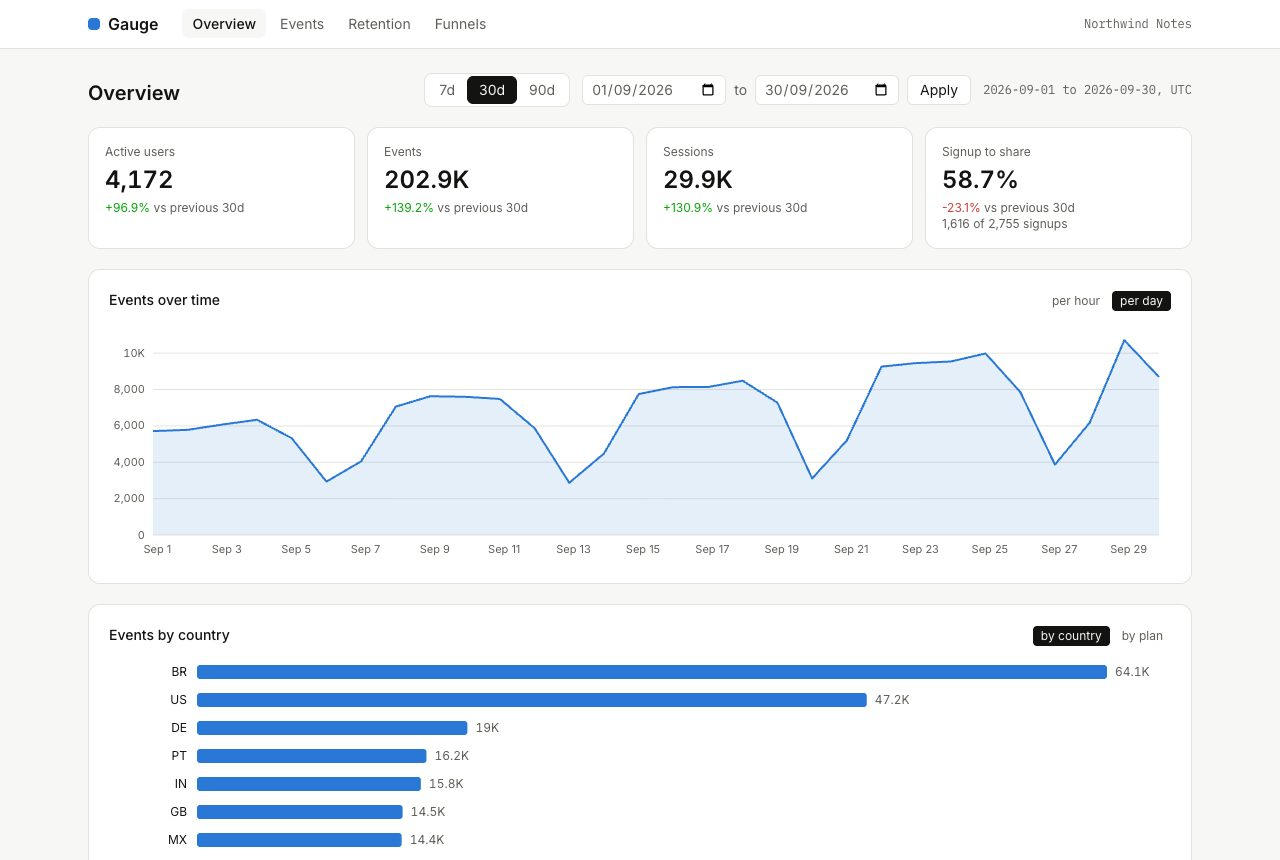
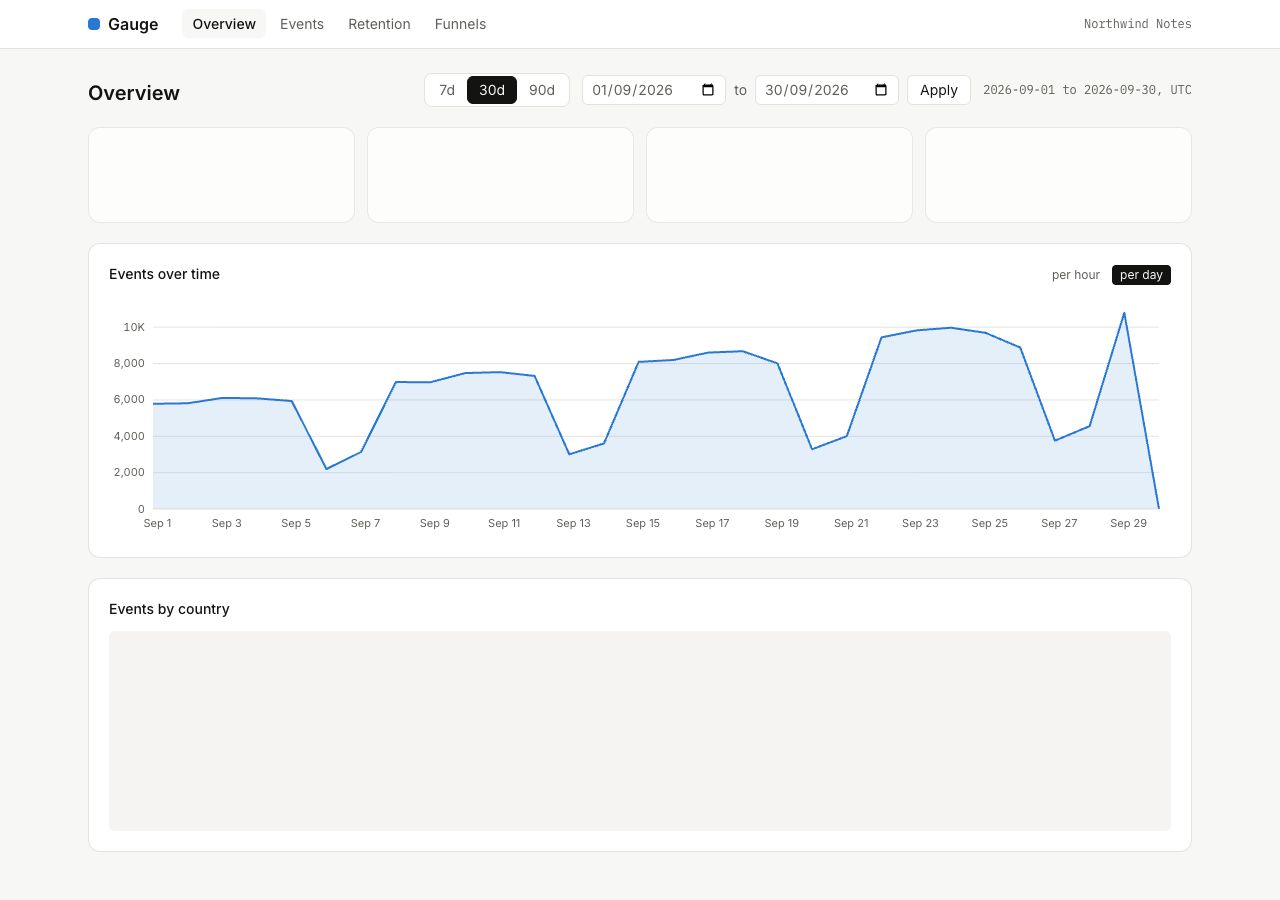
Make the seed reproducible and the database tests opt-in
The seed ends at the start of today in UTC (or SEED_NOW), so two runs
on the same day give the same numbers, and the reset and insert are one
transaction. The database tests run only with GAUGE_DB_TESTS=1: a .env
file alone does not mean Postgres is up.

diff --git a/src/lib/queries/__tests__/db.test.ts b/src/lib/queries/__tests__/db.test.ts
@@ -5,14 +5,15 @@ import { describe, expect, it } from 'vitest'
 import { parseRange } from '@/lib/params'
 
 /**
- * Runs against the seeded database when DATABASE_URL is set; skipped
- * otherwise, so `npm test` works without Postgres. The numbers below come
- * from the deterministic seed, so they are exact.
+ * Runs against the seeded database only when asked for with GAUGE_DB_TESTS=1
+ * (and DATABASE_URL set); a `.env` alone does not mean Postgres is up, and
+ * `npm test` has to pass on a laptop with the database stopped. The numbers
+ * below come from the deterministic seed, so they are exact.
  */
-const url = process.env.DATABASE_URL
+const enabled = process.env.GAUGE_DB_TESTS === '1' && Boolean(process.env.DATABASE_URL)
 const now = new Date()
 
-describe.skipIf(!url)('queries against the seeded database', () => {
+describe.skipIf(!enabled)('queries against the seeded database', () => {
   it('counts events in a range and fills empty buckets', async () => {
     const { timeseries, kpis } = await import('../overview')
     const range = parseRange({ range: '7d' }, now)
@@ -52,12 +53,23 @@ describe.skipIf(!url)('queries against the seeded database', () => {
     expect(second.data.rows[0]!.ts.getTime()).toBeLessThanOrEqual(last.ts.getTime())
   })
 
+  it('counts conversion only for signups old enough to have had the window', async () => {
+    const { kpis, CONVERSION_WINDOW_DAYS } = await import('../overview')
+    const range = parseRange({ range: '30d' }, now)
+    const k = await kpis(range.from, range.to, now)
+    // Pretend it is a week later: every signup in the range has matured, so the count can only grow.
+    const later = new Date(now.getTime() + CONVERSION_WINDOW_DAYS * 86_400_000)
+    const mature = await kpis(range.from, range.to, later)
+    expect(mature.signups).toBeGreaterThanOrEqual(k.signups)
+    expect(k.converted).toBeLessThanOrEqual(k.signups)
+  })
+
   it('builds a retention triangle whose first column is the cohort size', async () => {
     const { retention } = await import('../retention')
     const { data } = await retention(parseRange({ range: '90d' }, now), now)
     expect(data.cohorts.length).toBeGreaterThan(8)
     for (const c of data.cohorts) {
-      expect(c.cells[0]).toEqual({ users: c.size, ratio: 1 })
+      expect(c.cells[0]).toMatchObject({ users: c.size, ratio: 1 })
       for (const cell of c.cells.slice(1)) if (cell) expect(cell.ratio).toBeLessThanOrEqual(1)
     }
     // Newest cohort has fewer known weeks than the oldest.

diff --git a/prisma/seed.ts b/prisma/seed.ts
@@ -9,19 +9,38 @@ const db = new PrismaClient({
 })
 const BATCH = 5000
 
+/**
+ * The data ends at the start of today (UTC), or at SEED_NOW when set, so two
+ * runs on the same day produce the same numbers and a re-run is a no-op for
+ * the dashboards. The reset and the insert are one transaction: a reader
+ * during a reseed sees the old data or the new, never an empty table.
+ */
+function seedNow(): Date {
+  const env = process.env.SEED_NOW
+  if (env) return new Date(env)
+  const d = new Date()
+  return new Date(Date.UTC(d.getUTCFullYear(), d.getUTCMonth(), d.getUTCDate()))
+}
+
 async function main() {
   const started = performance.now()
-  const { users, events } = generate()
-  console.log(`generated ${users.length} users and ${events.length} events`)
+  const now = seedNow()
+  const { users, events } = generate({ now })
+  console.log(
+    `generated ${users.length} users and ${events.length} events up to ${now.toISOString()}`,
+  )
 
-  await db.event.deleteMany()
-  await db.user.deleteMany()
-  await db.user.createMany({ data: users })
-
-  for (let i = 0; i < events.length; i += BATCH) {
-    await db.event.createMany({ data: events.slice(i, i + BATCH) })
-    if ((i / BATCH) % 10 === 9) console.log(`  ${i + BATCH} events`)
-  }
+  await db.$transaction(
+    async (tx) => {
+      await tx.$executeRawUnsafe('TRUNCATE TABLE events, users RESTART IDENTITY')
+      await tx.user.createMany({ data: users })
+      for (let i = 0; i < events.length; i += BATCH) {
+        await tx.event.createMany({ data: events.slice(i, i + BATCH) })
+        if ((i / BATCH) % 10 === 9) console.log(`  ${i + BATCH} events`)
+      }
+    },
+    { timeout: 180_000 },
+  )
   await db.$executeRawUnsafe('ANALYZE events')
   await db.$executeRawUnsafe('ANALYZE users')
   console.log(`seeded in ${((performance.now() - started) / 1000).toFixed(1)}s`)

diff --git a/README.md b/README.md
@@ -41,12 +41,12 @@ npm run dev
 The seed is deterministic, so the numbers on your screen are the numbers in
 the screenshots. Any hosted Postgres works instead of `db:dev`.
 
-| Command             |                                                                   |
-| ------------------- | ----------------------------------------------------------------- |
-| `npm run dev`       | dev server, with each widget's query time under it                |
-| `npm test`          | the suite; the database tests run only when `DATABASE_URL` is set |
-| `npm run typecheck` | `tsc --noEmit`                                                    |
-| `npm run db:reset`  | drop, migrate, reseed                                             |
+| Command             |                                                                 |
+| ------------------- | --------------------------------------------------------------- |
+| `npm run dev`       | dev server, with each widget's query time under it              |
+| `npm test`          | the suite; add `GAUGE_DB_TESTS=1` to include the database tests |
+| `npm run typecheck` | `tsc --noEmit`                                                  |
+| `npm run db:reset`  | drop, migrate, reseed                                           |
 
 ## How the queries work
 
@@ -55,7 +55,7 @@ Everything lives in `src/lib/queries/` as tagged-template SQL through
 composed at runtime are column choices and CTE aliases the code picks itself.
 
 **Overview.** Counts over `events` for the range, and the same counts for
-the previous period of the same length, so every tile can say "+12% vs
+the previous period, cut to the same elapsed time, so every tile can say "+12% vs
 previous 30d". The time series uses `generate_series` for the buckets and a
 left join for the counts, which is what makes a quiet day show as zero
 instead of disappearing. Hour buckets kick in automatically for ranges up to
@@ -131,14 +131,19 @@ instead of noise.
 npm test
 ```
 
-32 tests without a database: the parameter parsing (every fallback), the
-retention and funnel shaping, CSV escaping, the seed's invariants (every
-event after its user's signup, the funnel leaks, weekends are quieter), and
-the charts as rendered components: empty states, the hidden tables, the
-keyboard tooltip. Five more run against the seeded database when
-`DATABASE_URL` is set: the buckets sum to the KPI count, keyset pages do
-not overlap, the retention triangle's first column equals the cohort size,
-the funnel never grows from one step to the next.
+41 tests without a database: the parameter parsing (every fallback, the
+calendar check, the span and hour-bucket clamps, the elapsed-time
+comparison window), the retention and funnel shaping including the week in
+progress, CSV escaping and the pull-driven CSV stream (a page is fetched
+only when the consumer asks, and cancelling closes the iterator), the seed's
+invariants (every event after its user's signup, the funnel leaks, weekends
+are quieter), the charts as rendered components, and the explorer table:
+a changed query drops the old rows and cursor, and the details dialog gives
+focus back to the row. Six more run against the seeded database with
+`GAUGE_DB_TESTS=1`: the buckets sum to the KPI count, keyset pages do not
+overlap, conversion counts only signups old enough to have had the window,
+the retention triangle's first column equals the cohort size, the funnel
+never grows from one step to the next.
 
 ## Layout
 
